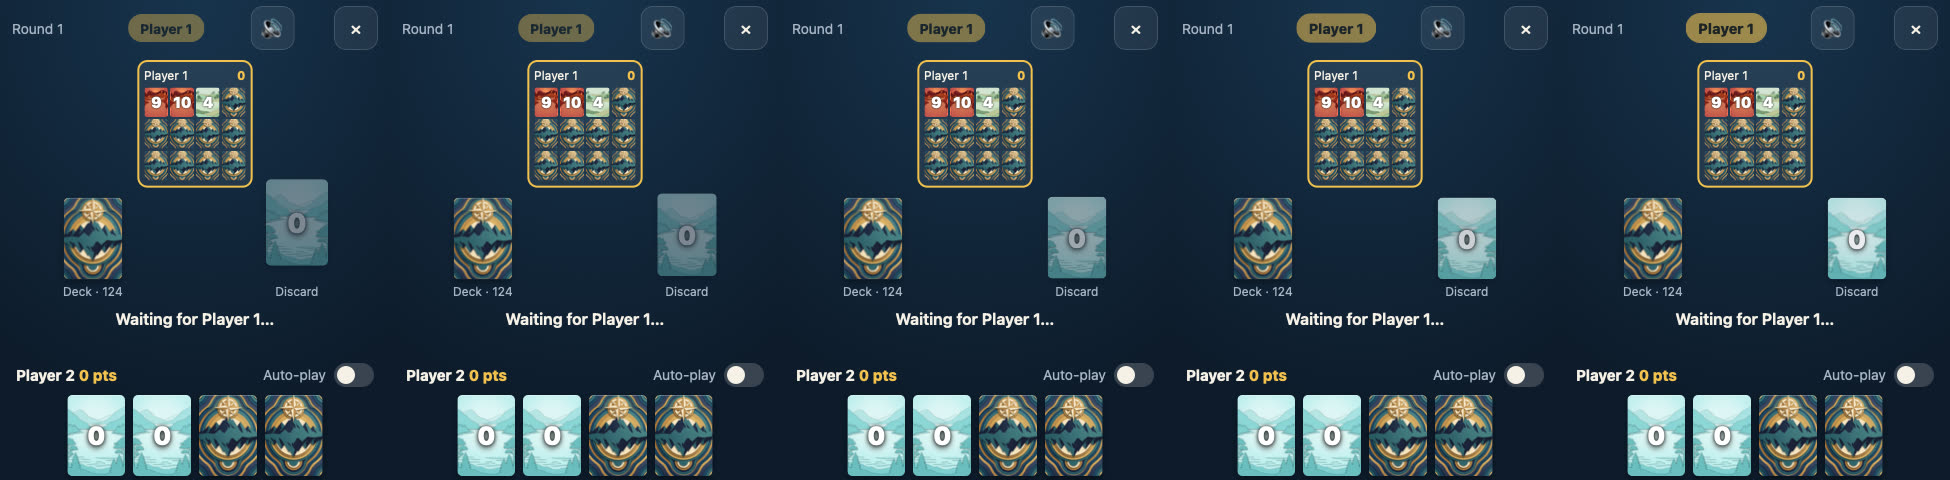
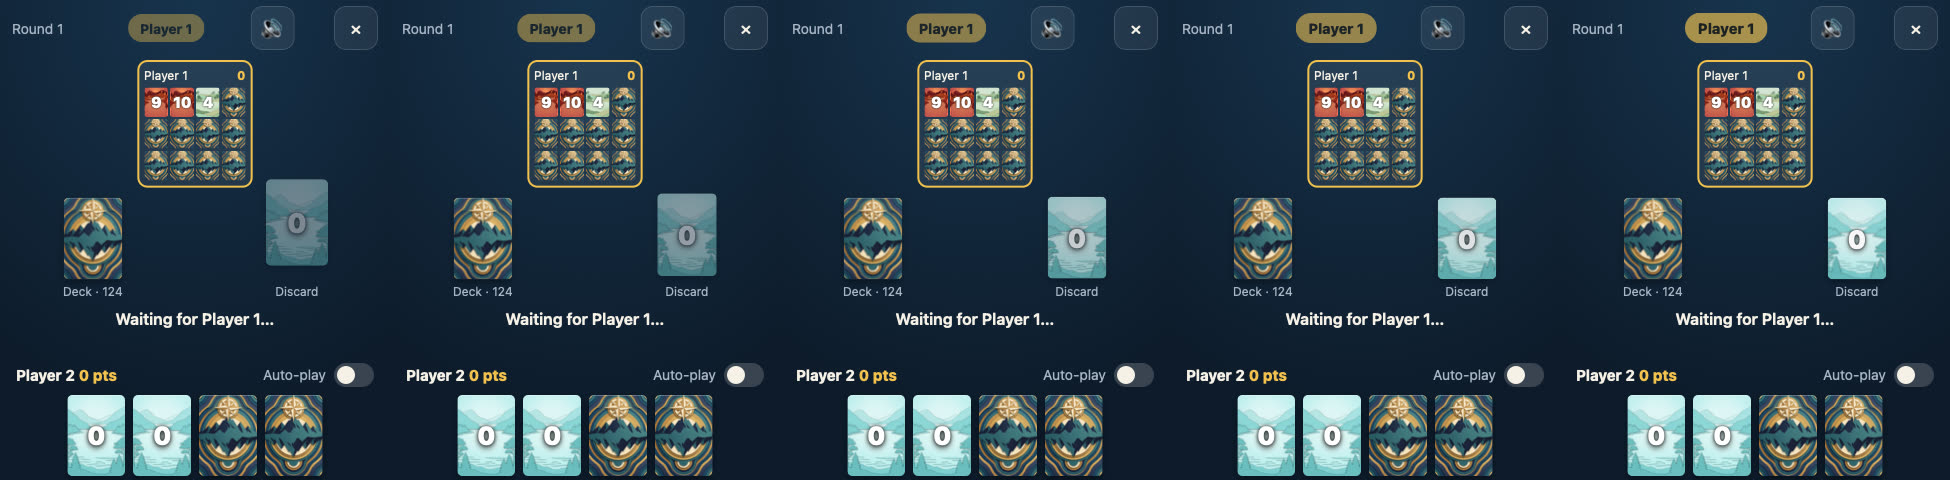
fix: totals hold during the final reveal; the held discard reads "From the discard" (R2, PO PR #25)
While the reveal plays, every total (the opponent panels, your own pts and
the zoomed grid) shows the one from before the round; the summary's
count-up then brings it to the new one. Players out before the round keep
their total (R16). A harness test checks the first frame, mid-reveal and
after, in a plain round and in knockout. The screen-reader label of a card
held from the discard is the caption now. After strips regenerated.

Changed region(s): [[0.5231, 0.4062, 0.5846, 0.5938], [0.4615, 0.0625, 0.4923, 0.0938]]

diff --git a/src/client/Table.tsx b/src/client/Table.tsx
@@ -34,6 +34,8 @@ const hurry = (left: number | null) => (left === null ? "" : left <= 5 ? " dange
 /** Out (R16) before this round: no cards and no turns. */
 const isOut = (p: PlayerView | undefined, round: number) =>
   p !== undefined && p.out !== null && p.out < round;
+/** This round's score, once the round is over; none for a player out before it (R16). */
+const lastScore = (p: PlayerView, round: number) => (isOut(p, round) ? 0 : (p.scores.at(-1) ?? 0));
 
 export function Table(props: TableProps) {
   const { view, onAction, onAuto, onPlayAgain, onExit, lead, connected, auto } = props;
@@ -74,6 +76,9 @@ export function Table(props: TableProps) {
 
   const reg = useFlights(view, tapped);
   const revealing = useRevealing(view);
+  // While the final reveal plays, totals stay as they were, so the cards tell the result first;
+  // the summary then counts them up (UX-27).
+  const total = (p: PlayerView) => (revealing ? p.total - lastScore(p, view.round) : p.total);
   useSounds(view, seat);
   const [muted, toggleMuted] = useMuted();
   // Tapping an opponent opens their grid full size; your own turn closes it.
@@ -268,7 +273,7 @@ export function Table(props: TableProps) {
               }}
               className={`opp${active ? " active" : ""}${gone ? " away" : ""}${clock ? " timed" : ""}${out ? " out" : ""}`}
               data-testid="opponent"
-              aria-label={`${gone ? `${t("offline")}: ` : ""}${auto?.[i] ? `${t("autoPlay")}: ` : ""}${out ? `${p.name}, ${t("outWatching")}` : t("showCards", { name: p.name })}, ${t("pts", { n: p.total })}`}
+              aria-label={`${gone ? `${t("offline")}: ` : ""}${auto?.[i] ? `${t("autoPlay")}: ` : ""}${out ? `${p.name}, ${t("outWatching")}` : t("showCards", { name: p.name })}, ${t("pts", { n: total(p) })}`}
               // No cards to show.
               disabled={out}
               onClick={() => setZoom(i)}
@@ -279,7 +284,7 @@ export function Table(props: TableProps) {
                   {p.name}
                 </span>
                 {clock && <Ring inMs={clock.inMs} />}
-                <span className="opp-total">{p.total}</span>
+                <span className="opp-total">{total(p)}</span>
               </span>
               {out ? (
                 <span className="out-note">{t("outWatching")}</span>
@@ -352,7 +357,7 @@ export function Table(props: TableProps) {
               <Card
                 slot={view.drawn}
                 size="md"
-                label={t("drawnCard")}
+                label={t("fromDiscard")}
                 testId="drawn"
                 cardRef={reg("drawn")}
               />
@@ -378,7 +383,7 @@ export function Table(props: TableProps) {
               <span className="auto-note">{t(away ? "autoAway" : "autoOn")}</span>
             ) : (
               <span className="me">
-                <strong>{me.name}</strong> <span className="pts">{t("pts", { n: me.total })}</span>
+                <strong>{me.name}</strong> <span className="pts">{t("pts", { n: total(me) })}</span>
               </span>
             )}
             {/* Nothing left to play once you're out (R16), even at that round's summary. */}
@@ -432,7 +437,7 @@ export function Table(props: TableProps) {
       )}
 
       {zoom !== null && players[zoom] && !isOut(players[zoom], view.round) && (
-        <Zoom view={view} seat={zoom} onClose={() => setZoom(null)} />
+        <Zoom view={view} seat={zoom} total={total(players[zoom])} onClose={() => setZoom(null)} />
       )}
 
       {/* The summary waits for the final reveal (UX-27). */}
@@ -476,7 +481,15 @@ function prompt(t: T, view: GameView, seat: number, myTurn: boolean, discardMode
  * One opponent's grid at full size, opened by tapping their panel; follows the live view. A native
  * modal <dialog> gives focus handling, Escape and an inert background; tapping outside closes it.
  */
-function Zoom({ view, seat, onClose }: { view: GameView; seat: number; onClose: () => void }) {
+interface ZoomProps {
+  view: GameView;
+  seat: number;
+  /** Their total as the table shows it (held during the final reveal). */
+  total: number;
+  onClose: () => void;
+}
+
+function Zoom({ view, seat, total, onClose }: ZoomProps) {
   const { t } = useI18n();
   const ref = useRef<HTMLDialogElement>(null);
   useEffect(() => {
@@ -496,7 +509,7 @@ function Zoom({ view, seat, onClose }: { view: GameView; seat: number; onClose: 
       <div className="sheet">
         <div className="sheet-head">
           <h2 id="zoom-title">
-            {p.name} · {t("pts", { n: p.total })}
+            {p.name} · {t("pts", { n: total })}
           </h2>
           <button type="button" className="btn" onClick={onClose}>
             {t("close")}
@@ -567,7 +580,7 @@ function Summary({ view, lead, auto, onPeek, onNext, onPlayAgain, onExit }: Summ
             {rows.map((p) => {
               // Players out before this round (R16) have no score in it.
               const played = !isOut(p, view.round);
-              const last = played ? (p.scores.at(-1) ?? 0) : 0;
+              const last = lastScore(p, view.round);
               return (
                 <tr key={p.seat} className={view.winners.includes(p.seat) ? "win" : undefined}>
                   <td>

diff --git a/e2e/motion.spec.ts b/e2e/motion.spec.ts
@@ -3,7 +3,7 @@ import { mkdirSync } from "node:fs";
 import { expect, type Page, test } from "@playwright/test";
 import { apply, type GameState } from "../src/engine/game";
 import { type GameView, toView } from "../src/engine/view";
-import { firstTurn, show } from "./harness";
+import { firstTurn, knockoutGame, show } from "./harness";
 import { seatedRoom, startGame } from "./helpers";
 
 /** Counts Element.animate calls (deterministic across engines, unlike sampling getAnimations()). */
@@ -302,6 +302,46 @@ test.describe("with motion allowed", () => {
     await expect(page.locator(".overlay")).toHaveCount(0);
     await page.clock.runFor(100);
     await expect(page.locator(".overlay")).toBeVisible();
+  });
+
+  test("UX-27: while the final reveal plays, every total is still the one from before the round, then the new one; in knockout too", async ({
+    page,
+  }) => {
+    await page.clock.install({ time: Date.UTC(2026, 9, 25, 12) });
+    await page.clock.pauseAt(Date.UTC(2026, 9, 25, 12, 0, 1));
+    // Knockout seed 1: Dani went out in round 1; Ana and Ben go out as round 2 ends.
+    const knockout = knockoutGame(["Ana", "Ben", "Cris", "Dani"], 1);
+    const end = knockout.findIndex((s) => s.round === 2 && s.phase === "gameOver");
+    const games = [
+      { ...race(3, 5), seat: 0 },
+      { before: knockout[end - 1], after: knockout[end], seat: 2 },
+    ];
+    const totals = () =>
+      page.evaluate(() => ({
+        panels: [...document.querySelectorAll('[data-testid="opponent"] .opp-total')].map(
+          (el) => el.textContent,
+        ),
+        mine: document.querySelector(".mine-head .pts")?.textContent,
+      }));
+    for (const { before, after, seat } of games) {
+      const n = after.players.length;
+      const others = Array.from({ length: n - 1 }, (_, i) => (seat + 1 + i) % n);
+      await show(page, { view: toView(before), seat, lead: true });
+      const was = await totals();
+      expect(was.panels).toEqual(others.map((i) => String(before.players[i].total)));
+      await page.evaluate((view) => {
+        dispatchEvent(new CustomEvent("skyjo:table", { detail: { view } }));
+      }, toView(after));
+      expect(await totals(), "the reveal's first frame").toEqual(was);
+      await page.clock.runFor(400); // every hold is ≥ 900 ms
+      expect(await totals(), "mid-reveal").toEqual(was);
+      await page.clock.runFor(3500);
+      await expect(page.locator(".overlay")).toBeVisible();
+      expect(await totals()).toEqual({
+        panels: others.map((i) => String(after.players[i].total)),
+        mine: `${after.players[seat].total} pts`,
+      });
+    }
   });
 
   test("UX-27: the card you tap to end the round turns at once, then the reveal", async ({

diff --git a/CHANGELOG.md b/CHANGELOG.md
@@ -10,13 +10,13 @@ Every merge to `main` deploys to https://skyjo-online.jcarl-30.workers.dev. When
 
 - Cards no longer jump. A card you swap into your grid now leaves from the card in your hand, not from about a card's width to the side, and a card taken from the discard right after another player's turn starts on the pile instead of flying out of that player's grid.
 - The deck and the discard pile stay where they are. Before, both slid sideways every time someone drew a card and every time a turn ended.
-- A card you take from the discard pile now looks taken from the discard. It is lifted up over the pile, which dims under it, instead of sliding to the middle like a card from the deck. It says "From the discard" ("Del descarte", "Do descarte"), and so does the prompt: "From the discard: tap a grid card to swap it in".
+- A card you take from the discard pile now looks taken from the discard. It is lifted up over the pile, which dims under it, instead of sliding to the middle like a card from the deck. It says "From the discard" ("Del descarte", "Do descarte"), to screen readers too, and so does the prompt: "From the discard: tap a grid card to swap it in".
 
 ### Changed
 
 - A card drawn from the deck leaves the top of the deck face down, lifts, and turns face up on its way to your hand.
 - Cards turn over all the way: you see the back, then the face.
-- At the end of a round the hidden cards turn over one by one, player by player, starting with the player after the one who ended the round. If you end the round by turning a card over, that card turns at once. The scores appear just after the last card has turned, instead of covering the table while the cards were still turning. Each player's cards make a sound as they start turning, and the game-over sound plays when the scores appear.
+- At the end of a round the hidden cards turn over one by one, player by player, starting with the player after the one who ended the round. If you end the round by turning a card over, that card turns at once. The scores appear just after the last card has turned, instead of covering the table while the cards were still turning. Until then, every player's total stays at what it was before the round, so the cards show the result first, and the scores then count up to the new totals. Each player's cards make a sound as they start turning, and the game-over sound plays when the scores appear.
 - With reduced motion on, nothing moves and the scores appear at once, as before.
 
 ## [2.2.0] - 2026-10-25
